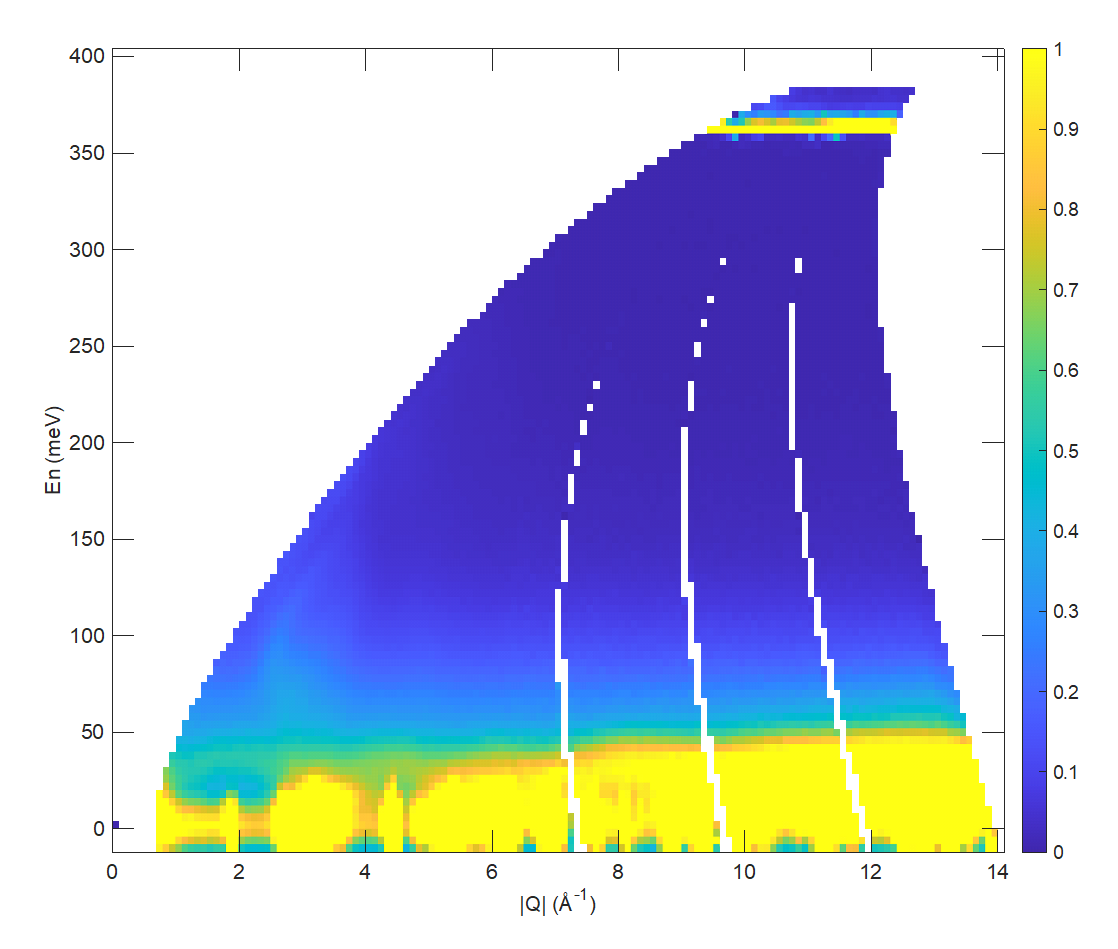
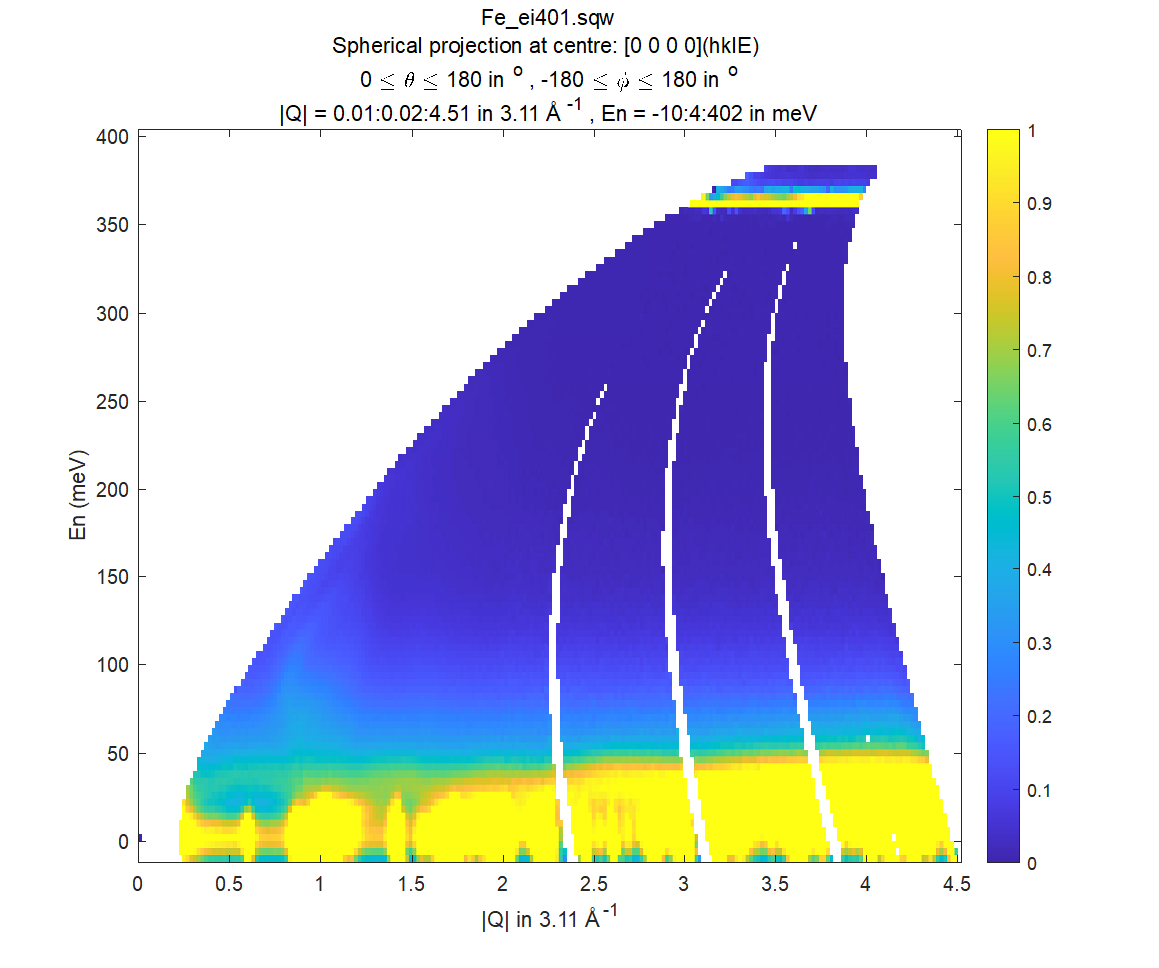
Re #1695 finished changes to sphere projection

diff --git a/documentation/user_docs/docs/manual/Cutting_data_of_interest_from_SQW_files_and_objects.rst b/documentation/user_docs/docs/manual/Cutting_data_of_interest_from_SQW_files_and_objects.rst
@@ -157,7 +157,7 @@ Binning arguments
 The binning arguments (``p1_bin``, ``p2_bin``, ``p3_bin`` and ``p4_bin``)
 specify the binning / integration ranges for the Q & Energy axes in **the target
 projection's** coordinate system (c.f. :ref:`Projection in more detail <Projection_in_details>` and
-`changing projections`_).
+`Auto-binning algorithm`_).
 
 Each can independently have one of four different forms below.
 
@@ -403,7 +403,7 @@ Where:
   1. ``'a'`` Inverse angstroms
 
   2. ``'r'``  Reciprocal lattice units (r.l.u.) which normalises so that the maximum of
-     :math:`|h|`, :math:`|k|` and :math:`|l|` is unity.
+  :math:`|h|`, :math:`|k|` and :math:`|l|` is unity.
 
   3. ``'p'`` Preserve the values of ``u`` and ``v``
 
@@ -649,21 +649,21 @@ where:
    :math:`[0,1,0]` respectively.
 
 - ``type``  Three character string denoting the the projection normalization of each
-  dimension, one character for each directions, e.g. ``'add'``, ``'arr'``, ``'adr'``.
+  dimension, one character for each directions, e.g. ``'add'``, ``'hrr'``, ``'adr'``.
 
-  At the moment there is only one possible option for the first (length) component of ``type``:
+  There are 6 possible options defining scale for the value of the momentum transfer:
 
-  1. ``'a'``     Inverse angstroms.
+  1. ``'a'``  :math:`|Q|` is measured in inverse angstroms.
+  
+  2. ``'r'``  Reciprocal lattice units (r.l.u.) which normalises vector :math:`\vec{Q}` so that the scale is the maximal value of the :math:`\vec{u}` projection to the unit vectors directed along the reciprocal lattice vectors.
 
-  ..
-     2. ``'r'``
-
-        Reciprocal lattice units (r.l.u.) which normalises so that the maximum of
-        :math:`|h|`, :math:`|k|` and :math:`|l|` is unity.
-
-     3. ``'p'``
-
-        Preserve the values of ``u`` and ``v``
+  3. ``'p'``   The scale is the length of the vector :math:`\vec{u}`
+  
+  4. ``'h'``   The scale is the length of the first vector of reciprocal lattice :math:`a^{*}`
+  
+  5. ``'k'``   The scale is the length of the second vector of reciprocal lattice :math:`b^{*}`  
+  
+  6. ``'l'``   The scale is the length of the third vector of reciprocal lattice :math:`c^{*}`    
 
   There are 2 possible options for the second and third (angular) components of
   ``type``:
@@ -705,7 +705,7 @@ where:
           sphere_proj with properties:
                  u: [1 0 0]
                  v: [0 1 0]
-              type: 'add'
+              type: 'pdd'
              alatt: []
             angdeg: []
             offset: [0 0 0 0]
@@ -789,10 +789,6 @@ MATLAB uses ``elevation`` angle which is related to :math:`\theta` angle used by
 ``azimuth`` angle form `MATLAB help pages <https://uk.mathworks.com/help/matlab/ref/cart2sph.html>`_
 is equivalent to Horace :math:`\phi` angle.
 
-.. note::
-
-   A spherical projection currently does not have the ability to be rescaled in
-   |Q| relative to the magnitude of :math:`u` or :math:`v`.
 
 When it comes to cutting and plotting, we can use a ``sphere_proj`` in
 exactly the same way as we would a ``line_proj``, but with one key
@@ -850,8 +846,8 @@ The following is an example using the :ref:`same data as above <datalink>`.
 .. code-block:: matlab
 
     data_source = 'Fe_ei401.sqw';
-    sp_proj = sphere_proj();
-    s2 = cut(data_source, sp_proj, [0, 0.1, 14], [0, 180], [-180, 180], [-10, 4, 400]);
+    sp_proj = sphere_proj([1,1,0]);
+    s2 = cut(data_source, sp_proj, [0, 0.02, 4.5], [0, 180], [-180, 180], [-10, 4, 400]);
     plot(s2);
 
 .. note::
@@ -866,16 +862,17 @@ This script produces the following plot:
    :alt: |Q|-dE cut.
 
    MAPS Fe data; Powder averaged scattering from iron with an incident energy of 401meV.
+   Note integrated spin-waves at :math:`[1,1,0]` locations.
 
 .. note::
 
    By default, energy transfer is expressed in meV, momentum transfer
-   :math:`\left|Q\right|` in inverse Angstroms (:math:`Å^{-1}`) and angles in
+   :math:`\left|Q\right|` in :math:`rlu`, scaled to the length of :math:`\vec{u}`-vector and angles in
    degrees (:math:`^\circ`).
 
 This figure shows that the energies of phonon excitations are located under
-50meV, some magnetic scattering is present at |Q| < 5 and spin waves follow the
-magnetic form factor.
+50meV, some magnetic scattering is observable at :math:`|Q| < 5Å^{-1}` and the spin
+waves are suppressed by the magnetic form factor.
 
 A spherical projection allows us to investigate the details of a particular spin
 wave, e.g. around the scattering point :math:`[0,-1,1]`.
@@ -883,7 +880,7 @@ wave, e.g. around the scattering point :math:`[0,-1,1]`.
 .. code-block:: matlab
 
     data_source = 'Fe_ei401.sqw';
-    sp_proj = sphere_proj();
+    sp_proj = sphere_proj('type','add');
     sp_proj.offset  = [0, -1, 1];
     s2 = cut(data_source, sp_proj, [0, 0.1, 2], [80, 90], [-180, 4, 180], [50, 60]);
     plot(s2);
